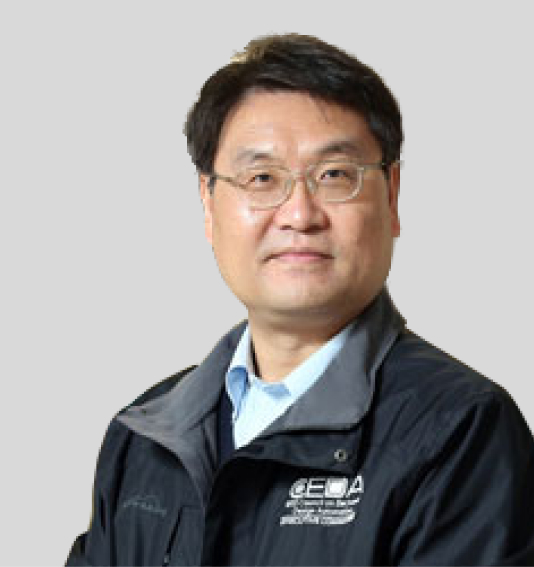
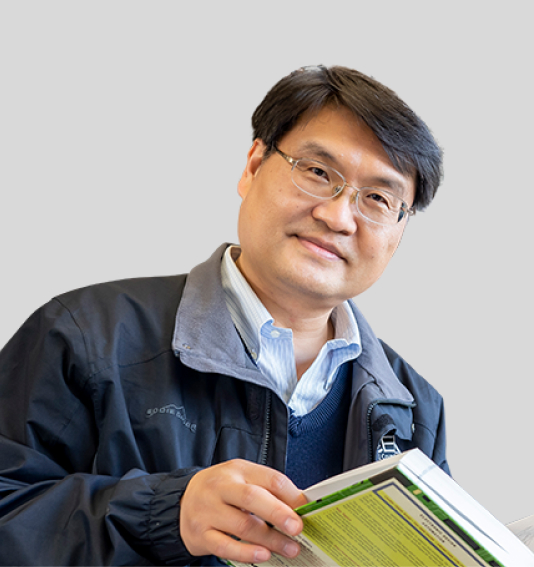
更新張耀文照片& html?v=date

diff --git a/introduce.html b/introduce.html
@@ -94,7 +94,7 @@
                     </div>
                   </div>
                   <div class="guest">
-                    <img src="./images/talker01-4.jpg">
+                    <img src="./images/talker01-4.jpg?v=202209261135">
                     <div class="caption">
                         <h2>張耀文</h2>
                         <p>臺灣大學電資學院院長</p>
